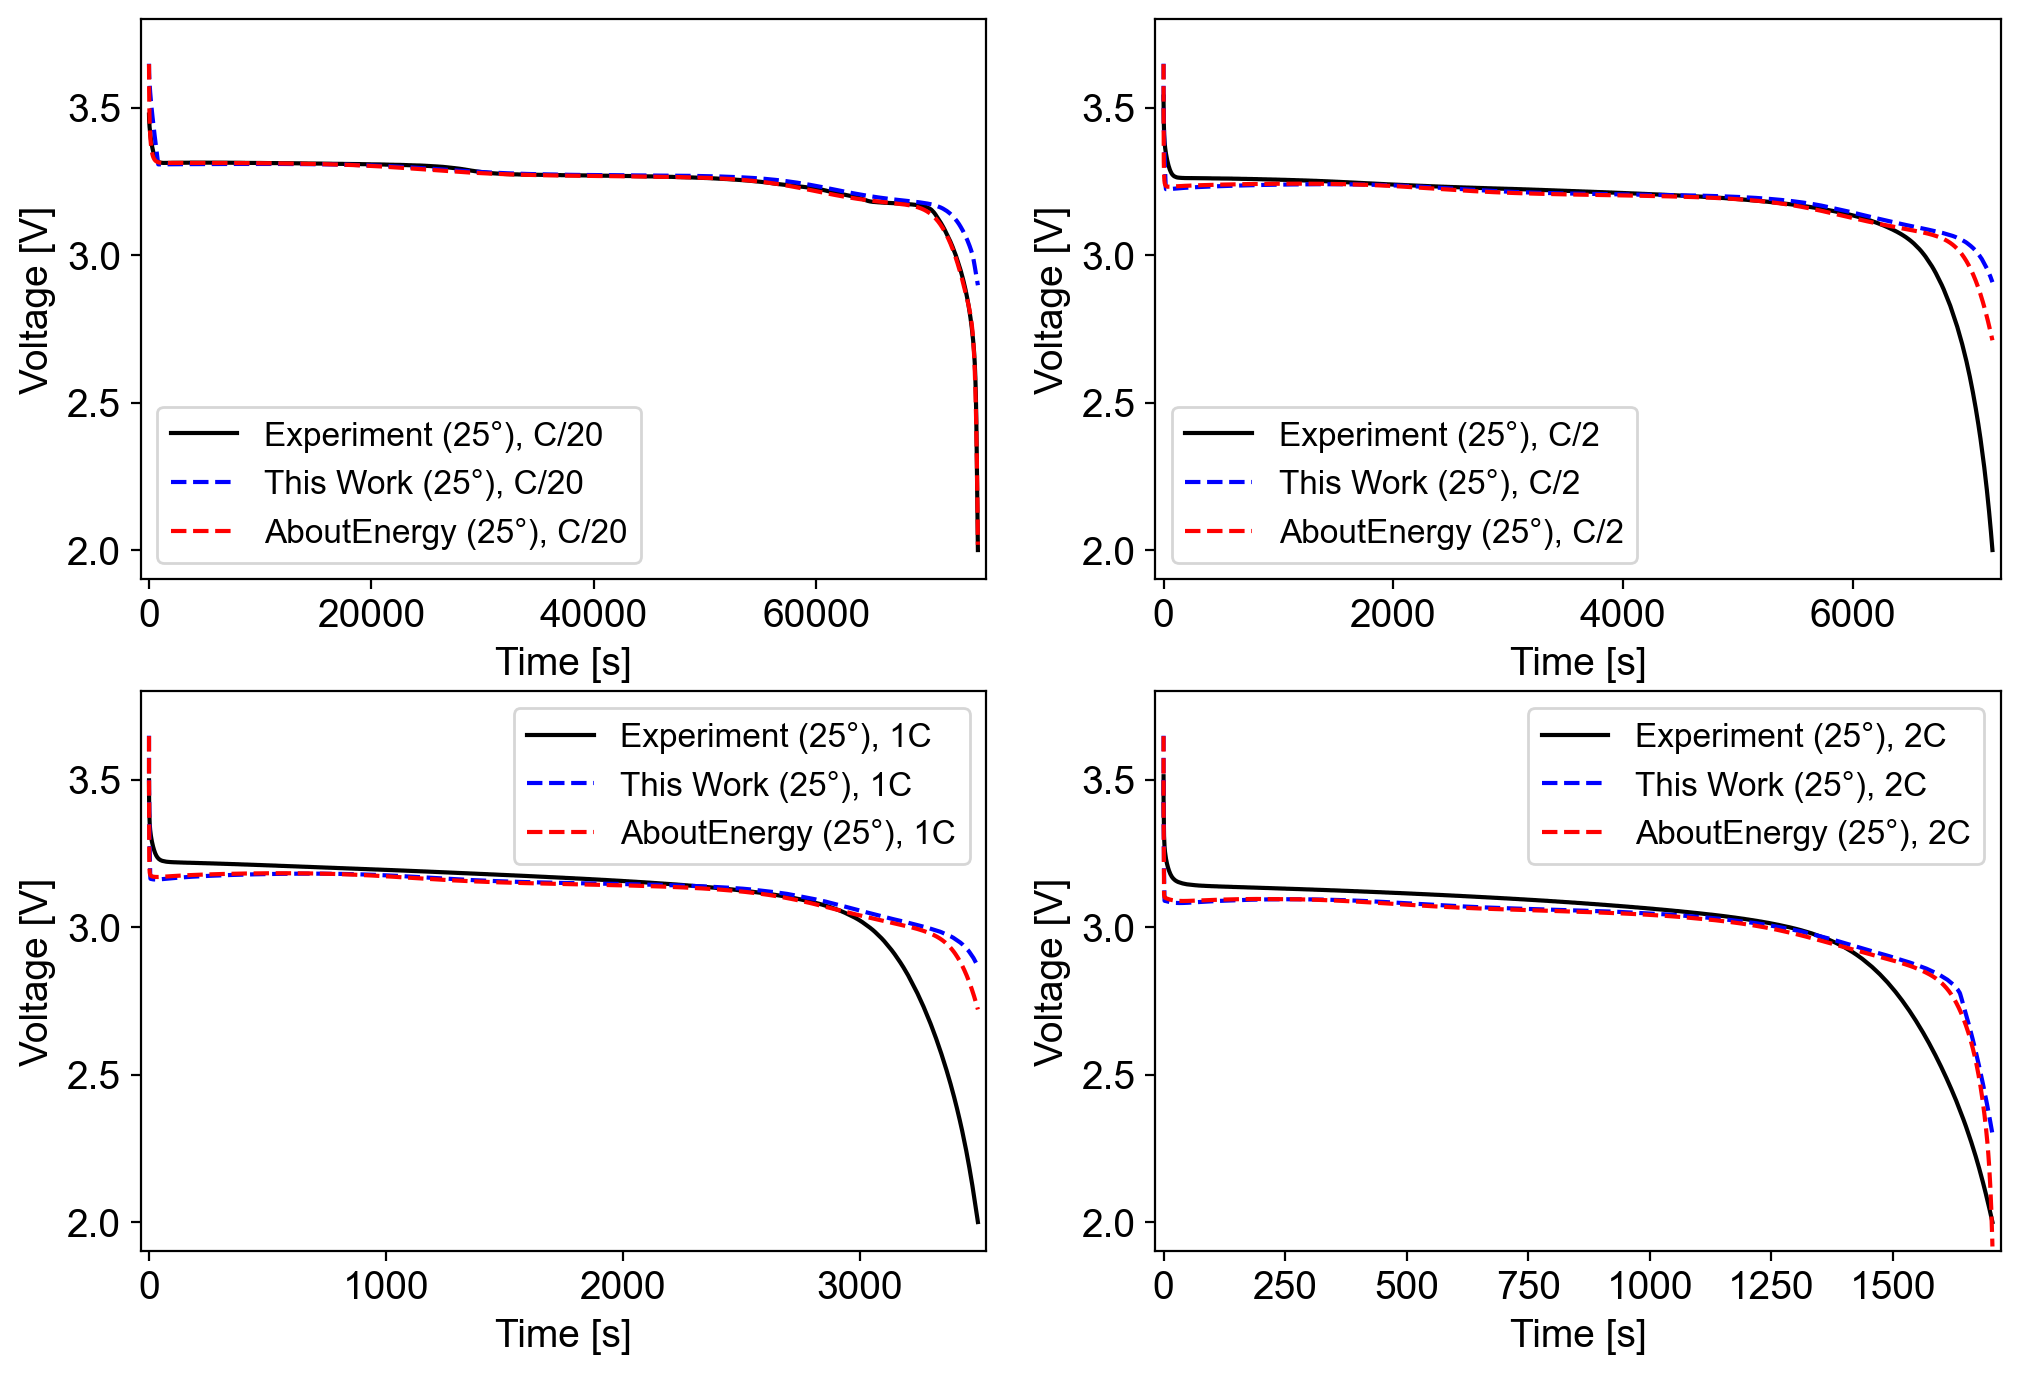
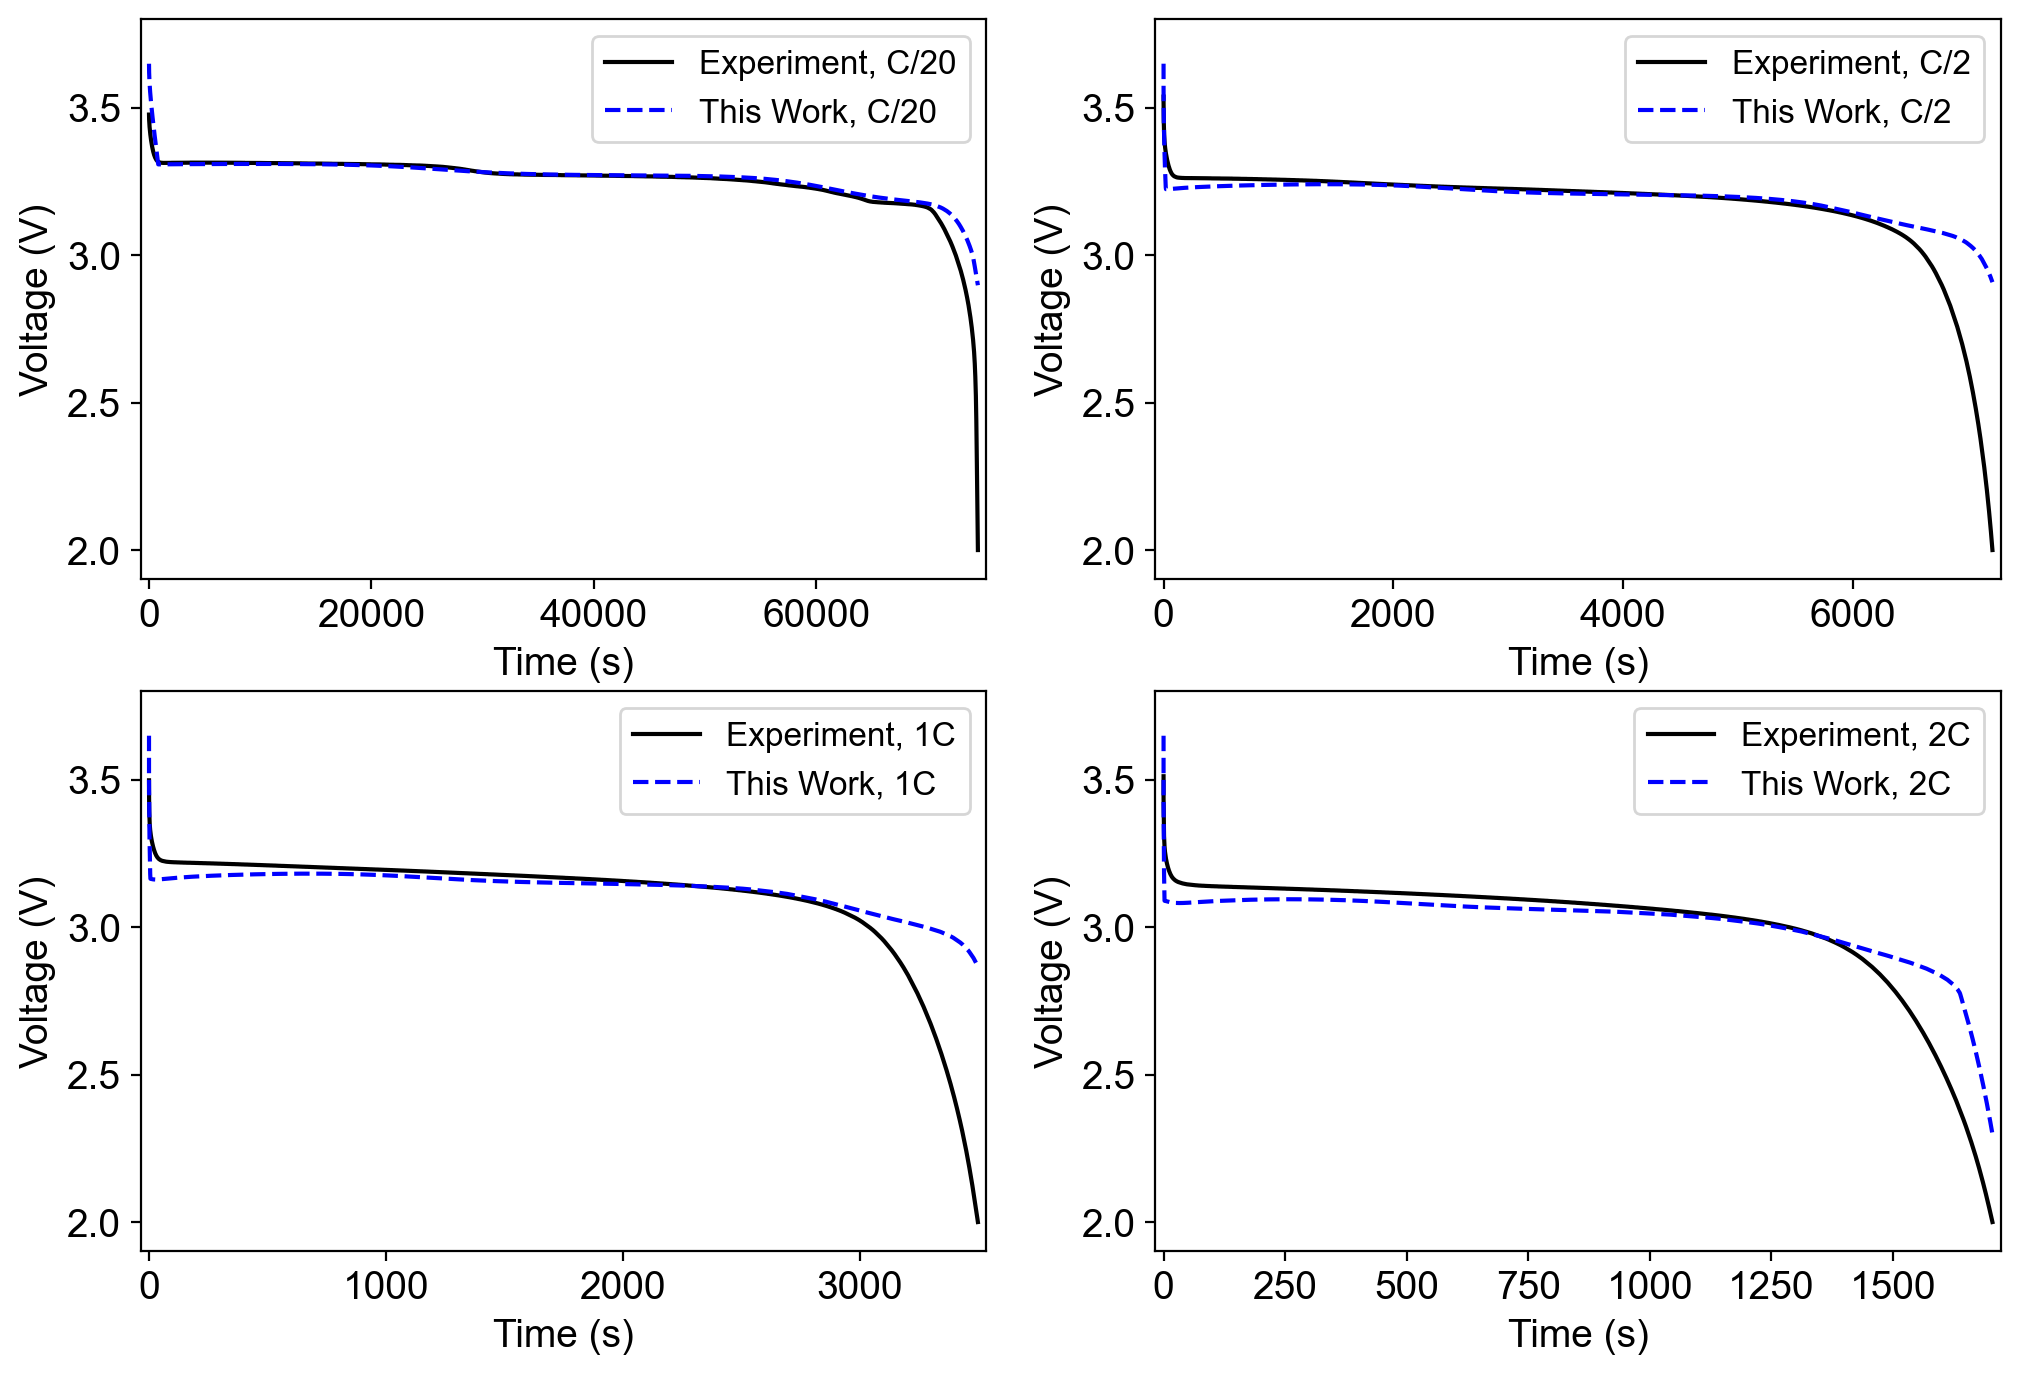
update draw_all.py and figures

diff --git a/pybamm_run/draw_all.py b/pybamm_run/draw_all.py
@@ -43,11 +43,11 @@ for i in range(0, len(c_rates)):
     temperature = 25
     indices = ax_i_j[i]
     ax_now = ax[indices[0]][indices[1]]
-    ax_now.plot(voltage_data[:, 0], voltage_data[:, 1], "k-", label=f"Experiment ({temperature}\N{DEGREE SIGN}), {c_rates_label[i]}")
-    ax_now.plot(t, V, "b--", label=f"This Work ({temperature}\N{DEGREE SIGN}), {c_rates_label[i]}")
-    ax_now.plot(t_a, V_a, "r--", label=f"AboutEnergy ({temperature}\N{DEGREE SIGN}), {c_rates_label[i]}")
-    ax_now.set_xlabel("Time [s]", fontsize=14)
-    ax_now.set_ylabel("Voltage [V]", fontsize=14)
+    ax_now.plot(voltage_data[:, 0], voltage_data[:, 1], "k-", label=f"Experiment, {c_rates_label[i]}")
+    ax_now.plot(t, V, "b--", label=f"This Work, {c_rates_label[i]}")
+    # ax_now.plot(t_a, V_a, "r--", label=f"AboutEnergy, {c_rates_label[i]}")
+    ax_now.set_xlabel("Time (s)", fontsize=14)
+    ax_now.set_ylabel("Voltage (V)", fontsize=14)
     ax_now.set_ylim([1.9, 3.8])
     ax_now.set_xlim([-t.max()/100, t.max()*1.01])
     ax_now.legend(fontsize=12)
@@ -94,8 +94,8 @@ for i in range(0, len(c_rates)):
     ax_now.plot(voltage_data[:, 0], voltage_data[:, 1], "k-", label=f"Experiment, {c_rates_label[i]}")
     ax_now.plot(t, V, "b--", label=f"This Work, {c_rates_label[i]}")
     ax_now.plot(t_a, V_a, "r--", label=f"AboutEnergy, {c_rates_label[i]}")
-    ax_now.set_xlabel("Time [s]", fontsize=14)
-    ax_now.set_ylabel("Voltage [V]", fontsize=14)
+    ax_now.set_xlabel("Time (s)", fontsize=14)
+    ax_now.set_ylabel("Voltage (V)", fontsize=14)
     ax_now.set_ylim([1.9, 3.8])
     ax_now.set_xlim([-t.max()/100, t.max()*1.01])
     ax_now.legend(fontsize=12)
@@ -113,8 +113,8 @@ for i in range(0, len(c_rates)):
     label = label + "%.3f mV" %(rmse)
     ax_now.plot(t, (V_a - voltage_data[:, 1]) * 1000, "r-", label = label)
     # settings
-    ax_now.set_xlabel("Time [s]")
-    ax_now.set_ylabel("Error [mV]")
+    ax_now.set_xlabel("Time (s)")
+    ax_now.set_ylabel("Error (mV)")
     ax_now.set_xlim([-t.max()/100, t.max()*1.01])
     ax_now.legend(fontsize=12)
     ax_now.tick_params(axis='both', which='major', labelsize=14)  
@@ -132,7 +132,7 @@ plt.figure(figsize=(5.5,4))
 plt.plot(c_rates,rmses_diffthermo, "b-*", label="This Work")
 plt.plot(c_rates,rmses_AboutEnergy, "r-*", label="AboutEnergy")
 plt.xlabel("C Rate", fontsize=18) # fontsize = 14
-plt.ylabel("RMSE [mV]", fontsize=18) # fontsize = 14
+plt.ylabel("RMSE (mV)", fontsize=18) # fontsize = 14
 plt.xticks(fontsize=18) # fontsize = 14
 plt.yticks(fontsize=18) # fontsize = 14
 plt.legend(fontsize = 14)

diff --git a/pybamm_run/SOH_calc.py b/pybamm_run/SOH_calc.py
@@ -59,6 +59,14 @@ parameter_values = pybamm.ParameterValues.create_from_bpx("lfp_18650_cell_BPX.js
 # customize parameter values
 parameter_values["Positive electrode OCP [V]"] = LFP_OCP
 
+# # check AboutEnergy OCV model
+# ocv_a = parameter_values['Positive electrode OCP [V]']
+# xs = np.linspace(0.09, 0.95, 10000)
+# ocv = []
+# for x in xs:
+#     ocv.append(ocv_a(x).value)
+# plt.plot(xs, np.array(ocv))
+# plt.show()
 
 # Solve for "x_100", "y_100", "Q", "x_0", "y_0". Detailed description can be found at https://github.com/pybamm-team/PyBaMM/blob/develop/examples/notebooks/models/electrode-state-of-health.ipynb
 param = pybamm.LithiumIonParameters()
